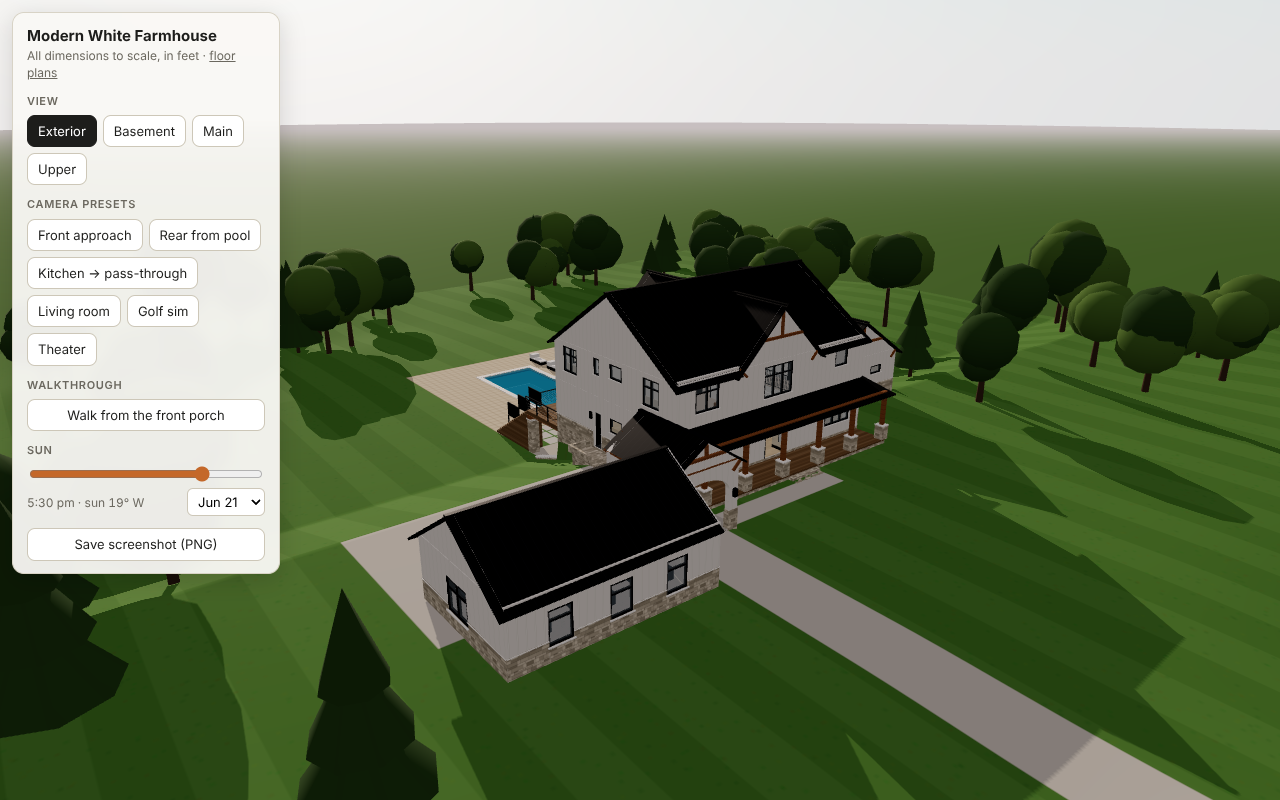
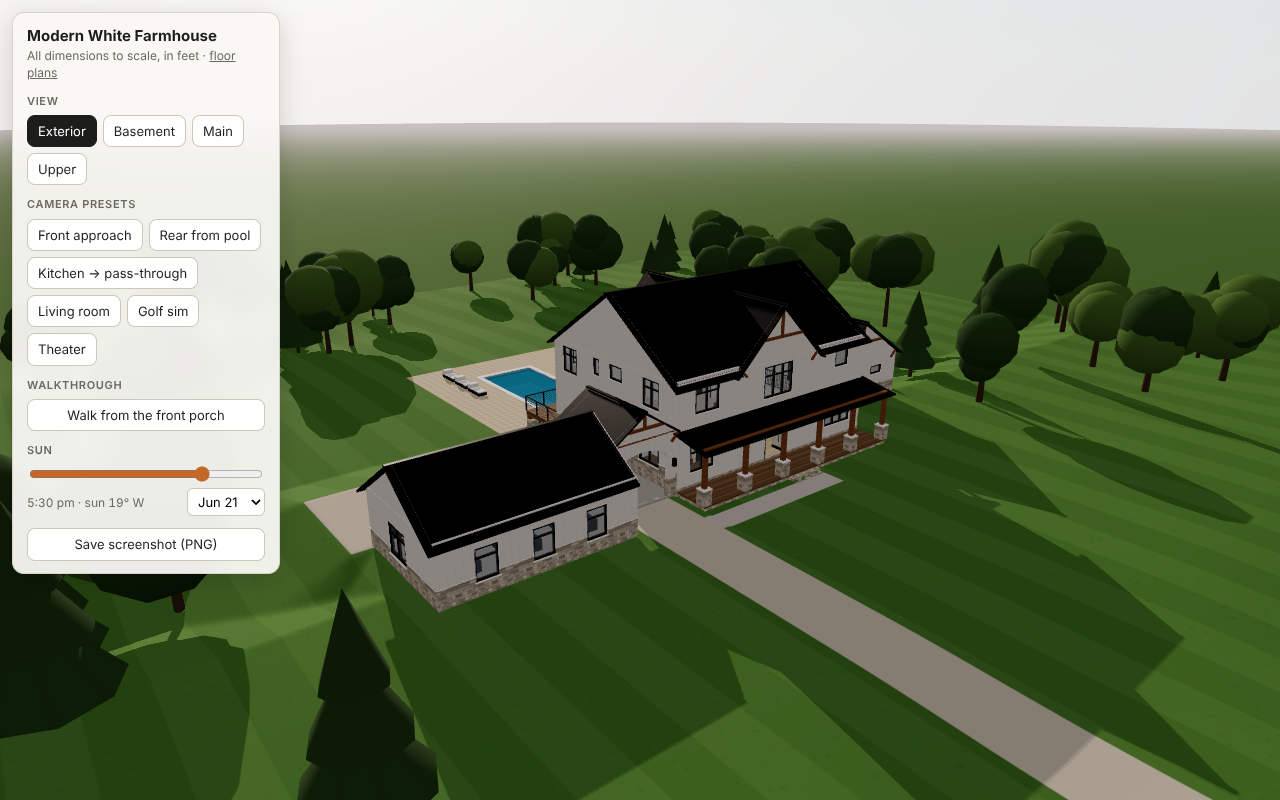
Match the reference image: garage beside the house, rear-facing court
- Garage sits beside the house (y 24-48) linked by the arched breezeway at
  mid-side; the driveway passes through the arch into a gravel motor court
  in front of the rear-facing garage doors, no further back than the
  house's rear wall.
- Garage-side lawn falls at 3:1 measured from the court, drive, breezeway
  and garage down to the patio; the only wall is the low (max 2'-11")
  patio-corner wall.
- Deck stairs move to the wing end; covered deck section (4:12 hip roof on
  cedar posts on stone bases) over the outdoor dining; fire pit with chairs
  beside the hot tub; loungers on the garage side of the pool.

Claude-Session: https://claude.ai/code/session_01XD9YHSFEoQqE2SWjbwMSnV

diff --git a/house-model/src/config/house.js b/house-model/src/config/house.js
@@ -143,8 +143,8 @@ export const floors = {
       { id: 'laundry',       name: 'Laundry',         use: 'service', x: 52, y: 20, w: 12, d: 10 },
       // the 4 ft wing entry hall (x 52–64, y 16–20) is the auto-generated hallway
       // — 3-car garage (slab 1 ft below main floor) —
-      // — 3-car garage beside the front of the house, doors facing the motor court —
-      { id: 'garage', name: '3-Car Garage', use: 'garage', x: -52, y: 44, w: 36, d: 24,
+      // — 3-car garage beside the house, doors facing the motor court (toward the rear) —
+      { id: 'garage', name: '3-Car Garage', use: 'garage', x: -52, y: 24, w: 36, d: 24,
         floorOffset: -1, finished: false },
     ],
     openPlan: [
@@ -165,7 +165,7 @@ export const floors = {
       { kind: 'window', on: 'y', at: 40, from: 41, to: 49 },                    // den → porch
       { kind: 'window', on: 'y', at: 30, from: 55, to: 61 },                    // laundry
       { kind: 'window', on: 'y', at: 30, from: 69, to: 73, sill: 6 },           // closet, high
-      // side walls (x = 0 faces the motor court from y = 19 to 40)
+      // side walls (x = 0: breezeway from y = 24 to 40, court drive below it)
       { kind: 'door',   on: 'x', at: 0,  from: 13.5, to: 16.5 },               // mudroom → stoop → motor court
       { kind: 'window', on: 'x', at: 0,  from: 19.5, to: 23.5, sill: 5 },       // stair landing
       { kind: 'window', on: 'x', at: 0,  from: 29, to: 35 },                    // office desk → side
@@ -186,14 +186,14 @@ export const floors = {
       { kind: 'door', on: 'x', at: 64, from: 22, to: 25, swing: -1 },         // closet → laundry
       { kind: 'door', on: 'y', at: 20, from: 55, to: 58 },                    // hall → laundry
       // garage — overhead doors face the motor court (not the road)
-      { kind: 'garage', on: 'y', at: 44, from: -50, to: -41 },
-      { kind: 'garage', on: 'y', at: 44, from: -39, to: -30 },
-      { kind: 'garage', on: 'y', at: 44, from: -28, to: -19 },
-      { kind: 'door',   on: 'x', at: -16, from: 50, to: 53, swing: -1 },      // garage ↔ breezeway
-      { kind: 'window', on: 'y', at: 68, from: -46, to: -42 },
-      { kind: 'window', on: 'y', at: 68, from: -36, to: -32 },
-      { kind: 'window', on: 'y', at: 68, from: -26, to: -22 },
-      { kind: 'window', on: 'x', at: -52, from: 52, to: 58 },
+      { kind: 'garage', on: 'y', at: 24, from: -50, to: -41 },
+      { kind: 'garage', on: 'y', at: 24, from: -39, to: -30 },
+      { kind: 'garage', on: 'y', at: 24, from: -28, to: -19 },
+      { kind: 'door',   on: 'x', at: -16, from: 30, to: 33, swing: -1 },      // garage ↔ breezeway
+      { kind: 'window', on: 'y', at: 48, from: -46, to: -42 },
+      { kind: 'window', on: 'y', at: 48, from: -36, to: -32 },
+      { kind: 'window', on: 'y', at: 48, from: -26, to: -22 },
+      { kind: 'window', on: 'x', at: -52, from: 32, to: 38 },
     ],
     furniture: [
       // kitchen — coffee station + fridge on the pantry wall, sink run under the pass-through
@@ -248,9 +248,9 @@ export const floors = {
       { type: 'counter',   x: 58.8, y: 27.7, w: 4.8, d: 2,   h: 3, sink: true },
       { type: 'tall',      x: 52.3, y: 21,   w: 1.7, d: 5,   h: 7 },
       // garage — three cars for scale
-      { type: 'car', x: -48.5, y: 47.5, w: 6, d: 16, h: 5 },
-      { type: 'car', x: -37.5, y: 47.5, w: 6, d: 16, h: 5 },
-      { type: 'car', x: -26.5, y: 47.5, w: 6, d: 16, h: 5 },
+      { type: 'car', x: -48.5, y: 27.5, w: 6, d: 16, h: 5 },
+      { type: 'car', x: -37.5, y: 27.5, w: 6, d: 16, h: 5 },
+      { type: 'car', x: -26.5, y: 27.5, w: 6, d: 16, h: 5 },
     ],
   },
 
@@ -425,13 +425,15 @@ export const exterior = {
     x: 0, y: -14, w: 52, d: 14, floor: -0.15,
     pierSpacing: 13, pierSize: 2,           // stone piers down to the patio
     railing: 'cable', railHeight: 3.5,
-    stairs: { x: 0, y: -30, w: 4, d: 16 },  // down to the pool deck, garage side
+    stairs: { x: 48, y: -30, w: 4, d: 16 }, // down to the pool deck, at the wing end
+    // covered section over the outdoor dining area: hip roof on cedar posts
+    cover: { x: 16, y: -12.5, w: 18, d: 12.5, eave: 9.5, pitch: 4 },  // ridge stays below the upper rear window
     barCounter: { x: 18, y: -1.8, w: 12, d: 1.5, h: 3.5 }, // outside the pass-through
   },
-  // Arched drive-through between the porch end and the garage. Cars pass
-  // front → back through it into the motor court.
+  // Arched drive-through linking the house and garage. Cars pass front → back
+  // through it into the motor court in front of the garage doors.
   breezeway: {
-    x: -16, y: 40, w: 16, d: 16,
+    x: -16, y: 24, w: 16, d: 16,
     floorOffset: -1, wallHeight: 12,
     archWidth: 12, archSpring: 7.5, archTop: 10.5,
   },
@@ -441,8 +443,8 @@ export const exterior = {
     // center gable, front and rear, over the foyer / dining / loft
     { id: 'center', type: 'crossGable', centerX: 26, width: 22, eave: 20.5, pitch: 12, overhang: 1.5, brackets: 'cedar' },
     { id: 'wing',   type: 'gable', x: 52,  y: 0,  w: 26, d: 30, ridge: 'y', eave: 11, pitch: 8, overhang: 1.5 },
-    { id: 'breezeway', type: 'gable', x: -16, y: 40, w: 16, d: 16, ridge: 'y', eave: 12, pitch: 8, overhang: 1 },
-    { id: 'garage', type: 'gable', x: -52, y: 44, w: 36, d: 24, ridge: 'x', eave: 10, pitch: 8, overhang: 1.5 },
+    { id: 'breezeway', type: 'gable', x: -16, y: 24, w: 16, d: 16, ridge: 'y', eave: 12, pitch: 8, overhang: 1 },
+    { id: 'garage', type: 'gable', x: -52, y: 24, w: 36, d: 24, ridge: 'x', eave: 10, pitch: 8, overhang: 1.5 },
   ],
   wainscotHeight: 3.5,   // stone veneer band on the main-level walls
   // stone stoop at main-floor level outside the mudroom door, stepping down to the court
@@ -456,18 +458,23 @@ export const site = {
     frontGrade: -1.5,       // lawn grade in front of the house
     courtGrade: -1.25,      // motor court, breezeway and garage apron: main-floor level
     walkoutGrade: -10.5,    // patio level = basement floor
-    // Side yards are smooth lawn slopes falling from main-floor level at the
-    // front to the patio at the rear, no steeper than `maxSlope` (run : rise).
-    // Each side stays at main-floor level forward of its `highY` line.
+    // Side yards are smooth lawn slopes, no steeper than `maxSlope` (run : rise).
+    // Garage side: the lawn falls away from the court, drive, breezeway and
+    // garage (all at main-floor level) down to the patio.
+    // Wing side: main-floor level forward of `north.highY`, falling toward the rear.
     maxSlope: 3,
-    south: { highY: 19 },   // garage side: the court's rear edge
-    north: { highY: 28 },   // wing side: just behind the wing's front corner
+    north: { highY: 28 },
     westFall: 0.035,        // continued fall past the pool, ft per ft
     rollAmplitude: 1.8,     // gentle rolling away from the house
   },
   road:      { y: 156, width: 22 },
-  driveway:  { width: 12, path: [[-8, 145], [-8, 56]] },        // to the breezeway arch
-  courtyard: { x: -56, y: 19, w: 56, d: 25 },                   // motor court behind the arch, at main-floor level
+  driveway:  { width: 12, path: [[-8, 145], [-8, 40]] },        // to the breezeway arch
+  // motor court at main-floor level: the apron in front of the garage doors,
+  // plus the drive from the breezeway arch (and the mudroom stoop) into it
+  courtyard: [
+    { x: -56, y: 0,  w: 37, d: 24 },
+    { x: -19, y: 19, w: 19, d: 5 },
+  ],
   coveredPatio: { x: 0, y: -14, w: 52, d: 14 },                 // under the deck
   // Large concrete pavers in a grid with grass strips, patio → pool deck
   paverGrid: { x: 6, y: -26, w: 40, d: 12, paver: 3.5, grass: 0.5 },
@@ -484,9 +491,13 @@ export const site = {
   furniture: [
     { type: 'sofa',    x: 5,  y: -9,  w: 8,   d: 3,   h: 2.6, elev: 'deck' },
     { type: 'table',   x: 40, y: -9,  w: 7,   d: 3.5, h: 2.5, elev: 'deck', chairs: 6 },
-    { type: 'lounger', x: 38, y: -66, w: 2.5, d: 6.5, h: 1.2 },
-    { type: 'lounger', x: 42, y: -66, w: 2.5, d: 6.5, h: 1.2 },
-    { type: 'lounger', x: 38, y: -76, w: 2.5, d: 6.5, h: 1.2 },
+    { type: 'lounger', x: 9,  y: -62, w: 2.5, d: 6.5, h: 1.2 },
+    { type: 'lounger', x: 9,  y: -70, w: 2.5, d: 6.5, h: 1.2 },
+    { type: 'lounger', x: 9,  y: -78, w: 2.5, d: 6.5, h: 1.2 },
+    // fire pit with two chairs on the paver grid beside the hot tub
+    { type: 'firepit', x: 11, y: -22, w: 3.5, d: 3.5, h: 1.3 },
+    { type: 'chair',   x: 7.5,  y: -25, w: 2.6, d: 2.6, h: 2.7, faces: '+y' },
+    { type: 'chair',   x: 14.5, y: -25, w: 2.6, d: 2.6, h: 2.7, faces: '+y' },
   ],
 };
 

diff --git a/house-model/src/plan/plan2d.js b/house-model/src/plan/plan2d.js
@@ -281,12 +281,11 @@ function patioWallSVG(width = 0.6) {
 /** Down-slope arrows + label for the 3:1 side lawns. */
 function slopeArrows(size = 0.9) {
   const t = site.terrain;
-  const sY = t.south.highY;
   const nY = t.north.highY;
   const run = (t.courtGrade - t.walkoutGrade) * t.maxSlope;
   const arrow = (x, y0, y1) => `<path d="M${x},${y0} L${x},${y1} m0,0 l-0.8,1.4 m0.8,-1.4 l0.8,1.4" stroke="#6f8558" stroke-width="0.18" fill="none"/>`;
-  let s = arrow(-8, sY - 2, sY - run + 2) + arrow(84, nY - 2, nY - run + 2);
-  s += text(-10, sY - run / 2, `lawn ${t.maxSlope}:1`, size, `text-anchor="end" dominant-baseline="central" fill="#55683f" class="halo"`);
+  let s = arrow(-30, -2, -20) + arrow(-8, 17, 4) + arrow(84, nY - 2, nY - run + 2);
+  s += text(-31, -11, `lawn ${t.maxSlope}:1`, size, `text-anchor="end" dominant-baseline="central" fill="#55683f" class="halo"`);
   s += text(86, nY - run / 2, `lawn ${t.maxSlope}:1`, size, `dominant-baseline="central" fill="#55683f" class="halo"`);
   return s;
 }
@@ -317,7 +316,12 @@ export function floorPlanSVG(key) {
     const st = deck.stairs;
     s += rect(st.x, st.y, st.w, st.d, `fill="#efe6d5" stroke="${INK}" stroke-width="0.1"`);
     for (let y = st.y + 1; y < st.y + st.d; y += 10 / 12) s += line(st.x, y, st.x + st.w, y, `stroke="${FURN}" stroke-width="0.05"`);
-    s += text(st.x + st.w + 0.8, st.y + 4, 'DN to pool deck', 0.8, `fill="#77746b" dominant-baseline="central"`);
+    s += text(st.x - 0.8, st.y + 4, 'DN to pool deck', 0.8, `text-anchor="end" fill="#77746b" dominant-baseline="central"`);
+    if (deck.cover) {
+      const c = deck.cover;
+      s += rect(c.x, c.y, c.w, c.d, `fill="none" stroke="#8d6a45" stroke-width="0.12" stroke-dasharray="0.6 0.4"`);
+      s += note(c.x + c.w / 2, c.y + 2.2, 'covered', 0.75);
+    }
     s += note(MID, -9.5, `Deck · ${fmtFeet(deck.w)} × ${fmtFeet(deck.d)} · cable rail, stone piers`, 0.9);
     s += text(exterior.deck.barCounter.x + exterior.deck.barCounter.w / 2, -3.2, 'Pass-through bar', 0.8, `text-anchor="middle" fill="${GLASS}"`);
     // breezeway
@@ -330,14 +334,15 @@ export function floorPlanSVG(key) {
     }
     s += note(bw.x + bw.w / 2, bw.y + bw.d / 2 - 0.7, 'Breezeway', 0.95, `fill="${INK}" font-weight="650"`);
     s += note(bw.x + bw.w / 2, bw.y + bw.d / 2 + 0.7, `${fmtFeet(bw.w)} × ${fmtFeet(bw.d)} drive-through`, 0.7);
-    const ct = site.courtyard;
-    s += rect(ct.x, ct.y, ct.w, ct.d, `fill="#ebe8e1" stroke="#c9c4b8" stroke-width="0.1"`);
+    const courts = [].concat(site.courtyard);
+    for (const c of courts) s += rect(c.x, c.y, c.w, c.d, `fill="#ebe8e1" stroke="none"`);
+    const ct = courts[0];
     const stp = exterior.stoop;
     if (stp) s += rect(stp.x, stp.y, stp.w, stp.d + 1, `fill="#d9d4c8" stroke="#9a968b" stroke-width="0.1"`);
-    s += `<path d="M-8,${bw.y + bw.d + 14} L-8,${ct.y + 6} M-8,${ct.y + 6} l-0.9,1.6 M-8,${ct.y + 6} l0.9,1.6" stroke="#9a968b" stroke-width="0.15" fill="none" stroke-dasharray="1 0.7"/>`;
+    s += `<path d="M-8,${bw.y + bw.d + 14} L-8,${bw.y - 2} Q-8,${bw.y - 6} -14,${bw.y - 6} L-24,${bw.y - 6} m0,0 l1.6,-0.9 m-1.6,0.9 l1.6,0.9" stroke="#9a968b" stroke-width="0.15" fill="none" stroke-dasharray="1 0.7"/>`;
     s += note(-8, bw.y + bw.d + 15.5, 'driveway from street', 0.8);
-    s += note(-36, ct.y + 9, 'Motor court', 0.95);
-    s += note(-36, ct.y + 10.7, `main-floor level · garage doors face the court`, 0.75);
+    s += note(ct.x + ct.w / 2, ct.y + ct.d / 2 - 2, 'Motor court', 0.95);
+    s += note(ct.x + ct.w / 2, ct.y + ct.d / 2 - 0.3, `main-floor level · garage doors face it`, 0.75);
     s += patioWallSVG(0.6) + slopeArrows(0.85);
     s += text(-1.2, -4, 'low wall ≤ 3\'', 0.75, `text-anchor="end" fill="#77746b" class="halo"`);
   } else {
@@ -417,8 +422,10 @@ export function sitePlanSVG() {
   s += lab(60, site.road.y, 'Road', 2.6);
   const [[dx, dy0], [, dy1]] = site.driveway.path;
   s += rect(dx - site.driveway.width / 2, dy1, site.driveway.width, dy0 - dy1, `fill="#cfccc4"`);
-  const c = site.courtyard;
-  s += rect(c.x, c.y, c.w, c.d, `fill="#cfccc4"`);
+  const courts = [].concat(site.courtyard);
+  for (const cc of courts) s += rect(cc.x, cc.y, cc.w, cc.d, `fill="#cfccc4"`);
+  s += rect(-14, exterior.breezeway.y, 12, exterior.breezeway.d, `fill="#cfccc4"`);
+  const c = courts[0];
   s += lab(c.x + c.w / 2, c.y + c.d / 2 - 4, 'Motor court');
   s += lab(c.x + c.w / 2, c.y + c.d / 2, `main-floor level · ${fmtFeet(t.courtGrade)}`, 2);
   // pool deck, pavers, pool, hot tub, pavilion
@@ -446,8 +453,8 @@ export function sitePlanSVG() {
   {
     const run = (t.courtGrade - t.walkoutGrade) * t.maxSlope;
     const band = (x0, x1, yHi) => rect(x0, yHi - run, x1 - x0, run, `fill="url(#slope)"`);
-    s += band(b[0], 0, t.south.highY) + band(WG.x + WG.w, b[2], t.north.highY);
-    s += lab(-30, t.south.highY - run / 2, `lawn slope ${t.maxSlope}:1 ↓ to patio`, 1.9);
+    s += band(WG.x + WG.w, b[2], t.north.highY);
+    s += lab(-38, -12, `lawn slope ${t.maxSlope}:1 ↓ to patio`, 1.9);
     s += lab(104, t.north.highY - run / 2, `lawn slope ${t.maxSlope}:1 ↓`, 1.9);
     s += text(-2, -6, 'low wall ≤ 3\'', 1.6, `text-anchor="end" fill="#55534d" class="halo"`);
   }

diff --git a/house-model/src/model/terrain.js b/house-model/src/model/terrain.js
@@ -2,11 +2,13 @@
 // Shared by the 3D terrain mesh and the walkthrough so you walk on exactly
 // the ground you see.
 //
-// Front yard and motor court sit at main-floor level. Each side yard is a
-// smooth lawn plane falling toward the rear at no more than `maxSlope` : 1
-// until it reaches the walkout patio level. Behind the house the pool deck
-// and patio are flat at the walkout level, then the lot falls away west.
-import { site, floors } from '../config/house.js';
+// Front yard, motor court, breezeway and garage sit at main-floor level.
+// On the garage side the lawn falls away from those at no more than
+// `maxSlope` : 1 (measured as distance from their edges) until it reaches the
+// walkout patio level. On the wing side the lawn is a plane falling toward the
+// rear. Behind the house the pool deck and patio are flat at the walkout
+// level, then the lot falls away west.
+import { site, floors, exterior } from '../config/house.js';
 
 const T = site.terrain;
 const smooth = (a, b, v) => {
@@ -16,6 +18,24 @@ const smooth = (a, b, v) => {
 const MAIN = floors.upper.footprint[0];   // main block
 const WING = floors.main.footprint[1];
 const PD = site.poolDeck;
+const GARAGE = floors.main.rooms.find((r) => r.id === 'garage');
+const BW = exterior.breezeway;
+
+/** Areas held at main-floor level on the garage side. */
+const SOUTH_HIGH = [
+  ...[].concat(site.courtyard),
+  { x: BW.x, y: BW.y, w: BW.w, d: BW.d },
+  { x: GARAGE.x, y: GARAGE.y, w: GARAGE.w, d: GARAGE.d },
+];
+const distRect = (r, x, y) => Math.hypot(Math.max(r.x - x, 0, x - (r.x + r.w)), Math.max(r.y - y, 0, y - (r.y + r.d)));
+
+/** Garage-side lawn: falls at maxSlope : 1 away from the high areas and the front yard. */
+function southGrade(x, y) {
+  const front = MAIN.y + MAIN.d;
+  let d = Math.max(0, front - y);
+  for (const r of SOUTH_HIGH) d = Math.min(d, distRect(r, x, y));
+  return Math.max(T.walkoutGrade, T.courtGrade - d / T.maxSlope);
+}
 
 // Gentle rolling that fades in well away from the house and yard.
 function roll(x, y) {
@@ -41,10 +61,7 @@ function baseGrade(x, y) {
   const fall = westFall(y);
   const front = (yy) => T.frontGrade + Math.max(0, yy - 60) * 0.006;
   // south side (garage, motor court): x left of the house
-  if (x < MAIN.x) {
-    if (y >= T.south.highY) return Math.max(T.courtGrade, front(y) - 0.5);
-    return sidePlane(T.south.highY, y, T.courtGrade) - fall;
-  }
+  if (x < MAIN.x) return southGrade(x, y) - fall;
   // north side, beside and beyond the wing (and the pool deck's north edge)
   if (x >= PD.x + PD.w || x >= WING.x + WING.w) {
     if (y >= T.north.highY) return front(y);
@@ -75,6 +92,8 @@ export const terrainHoles = [
 export function patioEdgeWall() {
   const x = MAIN.x;
   const y1 = MAIN.y;
-  const y0 = T.south.highY - (T.courtGrade - T.walkoutGrade) * T.maxSlope;
-  return { x, y0: Math.min(y0, y1), y1, heightAt: (y) => sidePlane(T.south.highY, y, T.courtGrade) - T.walkoutGrade };
+  const heightAt = (y) => southGrade(x - 1e-3, y) - T.walkoutGrade;
+  let y0 = y1;
+  while (y0 > y1 - 80 && heightAt(y0 - 0.25) > 0.02) y0 -= 0.25;
+  return { x, y0, y1, heightAt };
 }

diff --git a/house-model/src/app/exterior.js b/house-model/src/app/exterior.js
@@ -81,7 +81,8 @@ function deck(B, M, lanterns) {
   B.box(g, M.cedar, d.x, d.x + d.w, d.y, d.y + d.d, zBot - 0.15, zBot);
   // cable railing on the open sides (gap at the stair)
   const st = d.stairs;
-  cableRail(B, M, g, [[st.x + st.w, d.y], [d.x + d.w, d.y]], zTop, d.railHeight);
+  if (st.x > d.x + 0.5) cableRail(B, M, g, [[d.x, d.y], [st.x, d.y]], zTop, d.railHeight);
+  if (st.x + st.w < d.x + d.w - 0.5) cableRail(B, M, g, [[st.x + st.w, d.y], [d.x + d.w, d.y]], zTop, d.railHeight);
   cableRail(B, M, g, [[d.x + d.w, d.y], [d.x + d.w, d.y + d.d]], zTop, d.railHeight);
   cableRail(B, M, g, [[d.x, d.y], [d.x, d.y + d.d]], zTop, d.railHeight);
   // bar counter outside the kitchen pass-through
@@ -101,7 +102,18 @@ function deck(B, M, lanterns) {
     B.box(g, M.deck, st.x, st.x + st.w, y1 - run, y1, patio, zTop - k * rise);
   }
   B.surface(st.x, st.x + st.w, st.y, d.y, (x, y) => patio + ((y - st.y) / st.d) * drop, 'deck-stair');
-  cableRail(B, M, g, [[st.x + st.w, st.y], [st.x + st.w, d.y]], zTop, d.railHeight, (y) => patio + ((y - st.y) / st.d) * drop);
+  for (const sx of [st.x, st.x + st.w]) cableRail(B, M, g, [[sx, st.y], [sx, d.y]], zTop, d.railHeight, (y) => patio + ((y - st.y) / st.d) * drop);
+  // covered section: cedar posts and beams (hip roof is built with the roofs)
+  if (d.cover) {
+    const c = d.cover;
+    const zb = zTop + c.eave - 0.15;
+    for (const px of [c.x + 0.4, c.x + c.w - 0.4]) {
+      B.box(g, M.stone, px - 0.9, px + 0.9, c.y - 0.5, c.y + 1.3, zTop, zTop + 2.5, { collide: true });
+      B.box(g, M.cedar, px - 0.45, px + 0.45, c.y - 0.05, c.y + 0.85, zTop + 2.5, zb, { collide: true });
+    }
+    B.box(g, M.cedar, c.x, c.x + c.w, c.y, c.y + 0.8, zb - 0.9, zb);
+    for (const bx of [c.x, c.x + c.w - 0.8]) B.box(g, M.cedar, bx, bx + 0.8, c.y, c.y + c.d, zb - 0.9, zb);
+  }
   // sconces on the rear wall
   for (const x of [16.5, 37.5]) lantern(B, M, lanterns, x, -0.5, 7);
   for (const x of [1.5, 14.5, 17, 35, 41, 52]) lantern(B, M, lanterns, x, -0.5, site.terrain.walkoutGrade + 7.2);

diff --git a/house-model/src/app/roofs.js b/house-model/src/app/roofs.js
@@ -171,6 +171,7 @@ export function buildRoofs(B, M) {
   }
   porchRoof(B, M);
   pavilionRoof(B, M);
+  deckCover(B, M);
 }
 
 function porchRoof(B, M) {
@@ -183,6 +184,28 @@ function porchRoof(B, M) {
   slabPoly(B, 'roof', M.roof, M.black, [[p.x - oh, yHi, p.roofHigh], [p.x + p.w + oh, yHi, p.roofHigh], [p.x + p.w + oh, yLo, zLo], [p.x - oh, yLo, zLo]]);
   // cedar ceiling under the porch roof
   slabPoly(B, 'roof', M.cedar, M.cedar, [[p.x, yHi, p.roofHigh - 0.5], [p.x + p.w, yHi, p.roofHigh - 0.5], [p.x + p.w, p.y + p.d, p.roofLow - 0.5], [p.x, p.y + p.d, p.roofLow - 0.5]], 0.1);
+}
+
+/** Hip roof over the covered part of the deck, tucked against the rear wall. */
+function deckCover(B, M) {
+  const c = exterior.deck.cover;
+  if (!c) return;
+  const oh = 1;
+  const x0 = c.x - oh;
+  const x1 = c.x + c.w + oh;
+  const y0 = c.y - oh;
+  const y1 = c.y + c.d;                    // the rear wall
+  const E = exterior.deck.floor + c.eave - oh * (c.pitch / 12);
+  const s = c.pitch / 12;
+  const hd = (x1 - x0) / 2;
+  const zr = E + Math.min(hd, y1 - y0) * s;
+  const xm = (x0 + x1) / 2;
+  const yr = y0 + (zr - E) / s;            // where the side slopes meet the ridge
+  slabPoly(B, 'roof', M.roof, M.black, [[x0, y0, E], [x1, y0, E], [xm, yr, zr]]);
+  slabPoly(B, 'roof', M.roof, M.black, [[x0, y1, E + (y1 - y0) * 0], [x0, y0, E], [xm, yr, zr], [xm, y1, zr]]);
+  slabPoly(B, 'roof', M.roof, M.black, [[x1, y0, E], [x1, y1, E], [xm, y1, zr], [xm, yr, zr]]);
+  // cedar ceiling under it
+  B.box('roof', M.cedar, c.x, c.x + c.w, c.y, y1, E + 0.6, E + 0.7);
 }
 
 function pavilionRoof(B, M) {

diff --git a/house-model/src/app/materials.js b/house-model/src/app/materials.js
@@ -402,9 +402,10 @@ export function siteTexture(site, extent, ppf = 4) {
   R(x0, site.road.y - site.road.width / 2, x1 - x0, site.road.width, '#47494b');
   R(x0, site.road.y - 0.4, x1 - x0, 0.8, '#d8c25a');
   const [[dx, dy0], [, dy1]] = site.driveway.path;
-  R(dx - site.driveway.width / 2, dy1, site.driveway.width, dy0 - dy1 + site.road.width / 2, '#cdc9bf');
-  const ct = site.courtyard;
-  R(ct.x, ct.y, ct.w, ct.d + 12, '#cdc9bf');   // court + apron under the breezeway
+  R(dx - site.driveway.width / 2, dy1, site.driveway.width, dy0 - dy1 + site.road.width / 2, '#cfc8b8');
+  // gravel motor court + drive under the breezeway arch
+  for (const ct of [].concat(site.courtyard)) R(ct.x, ct.y, ct.w, ct.d, '#cfc8b8');
+  R(-14, 24, 12, 16, '#cfc8b8');
   // front walk from the porch steps to the driveway
   R(-2, 50, 32, 5, '#cdc9bf');
   // pool deck (travertine-look pavers)

diff --git a/house-model/src/app/furniture.js b/house-model/src/app/furniture.js
@@ -187,6 +187,10 @@ export function furniture(B, M, g, f, base, room, P) {
       B.surface(f.x - 0.01, f.x + f.w, f.y, f.y + f.d, (x) => base + h - ((x - f.x) / f.w) * h, 'steps');
       break;
     }
+    case 'firepit':
+      box(M.stone, R(f), 0, h);
+      box(M.black, inset(R(f), 0.5), h - 0.1, h + 0.02);
+      break;
     case 'lounger':
       box(M.rail, R(f), 0, 0.9);
       box(M.bedding, inset(R(f), 0.1), 0.9, h);
